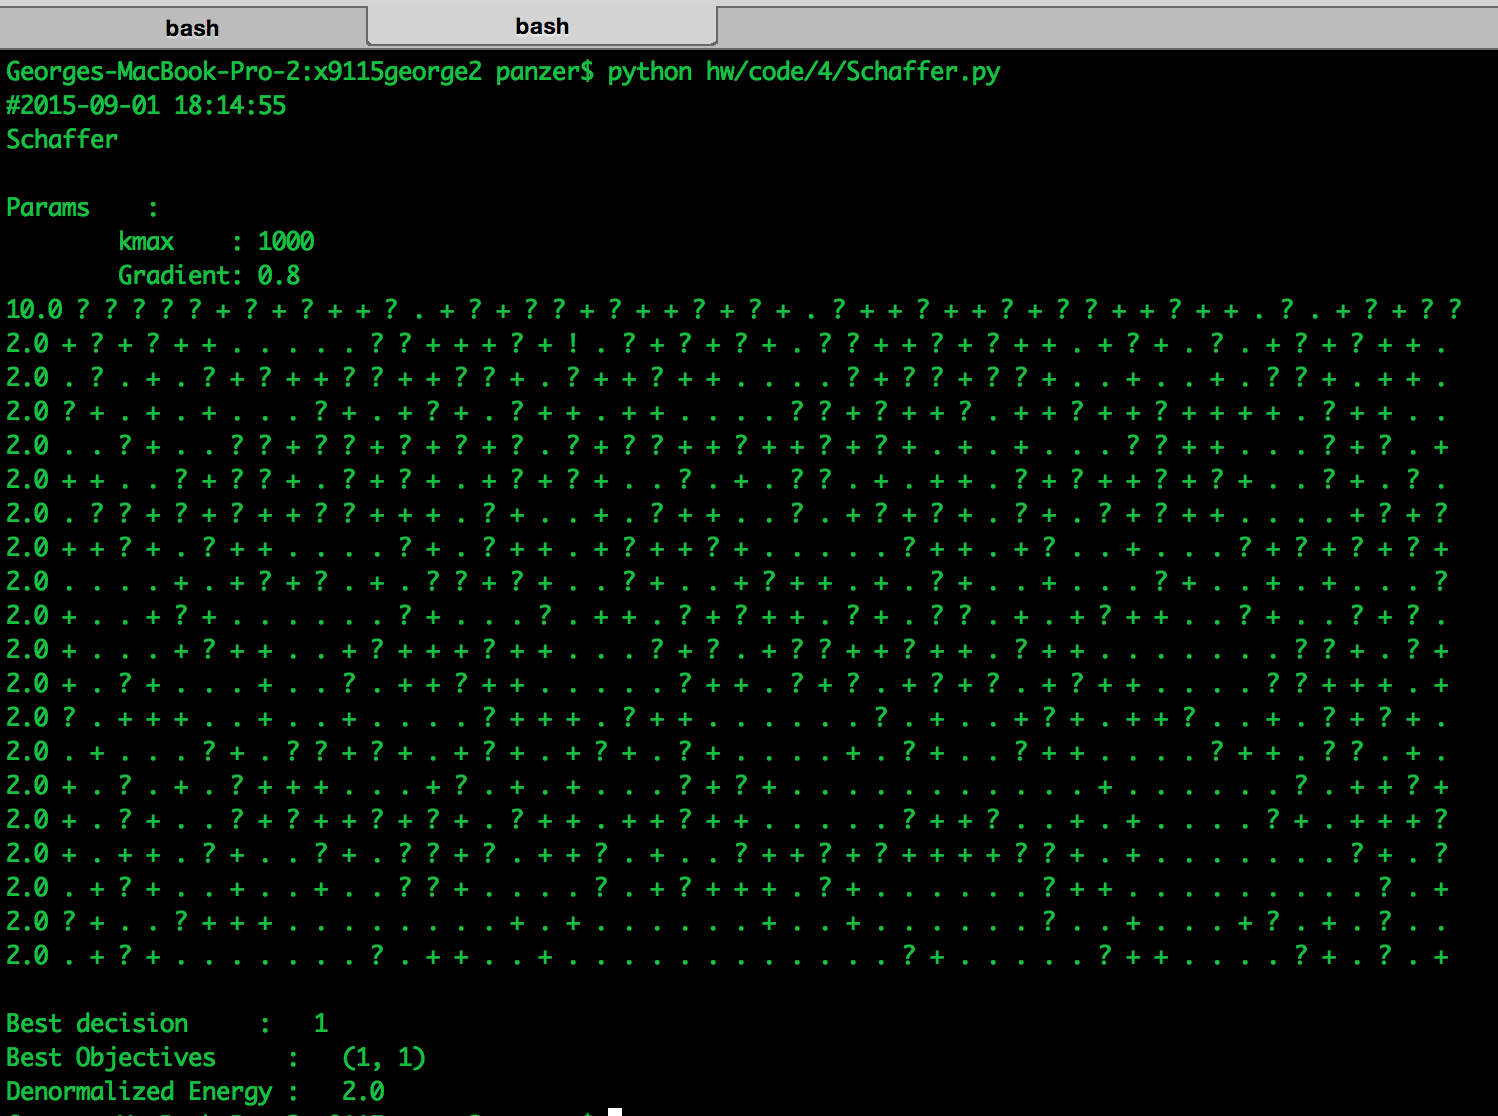
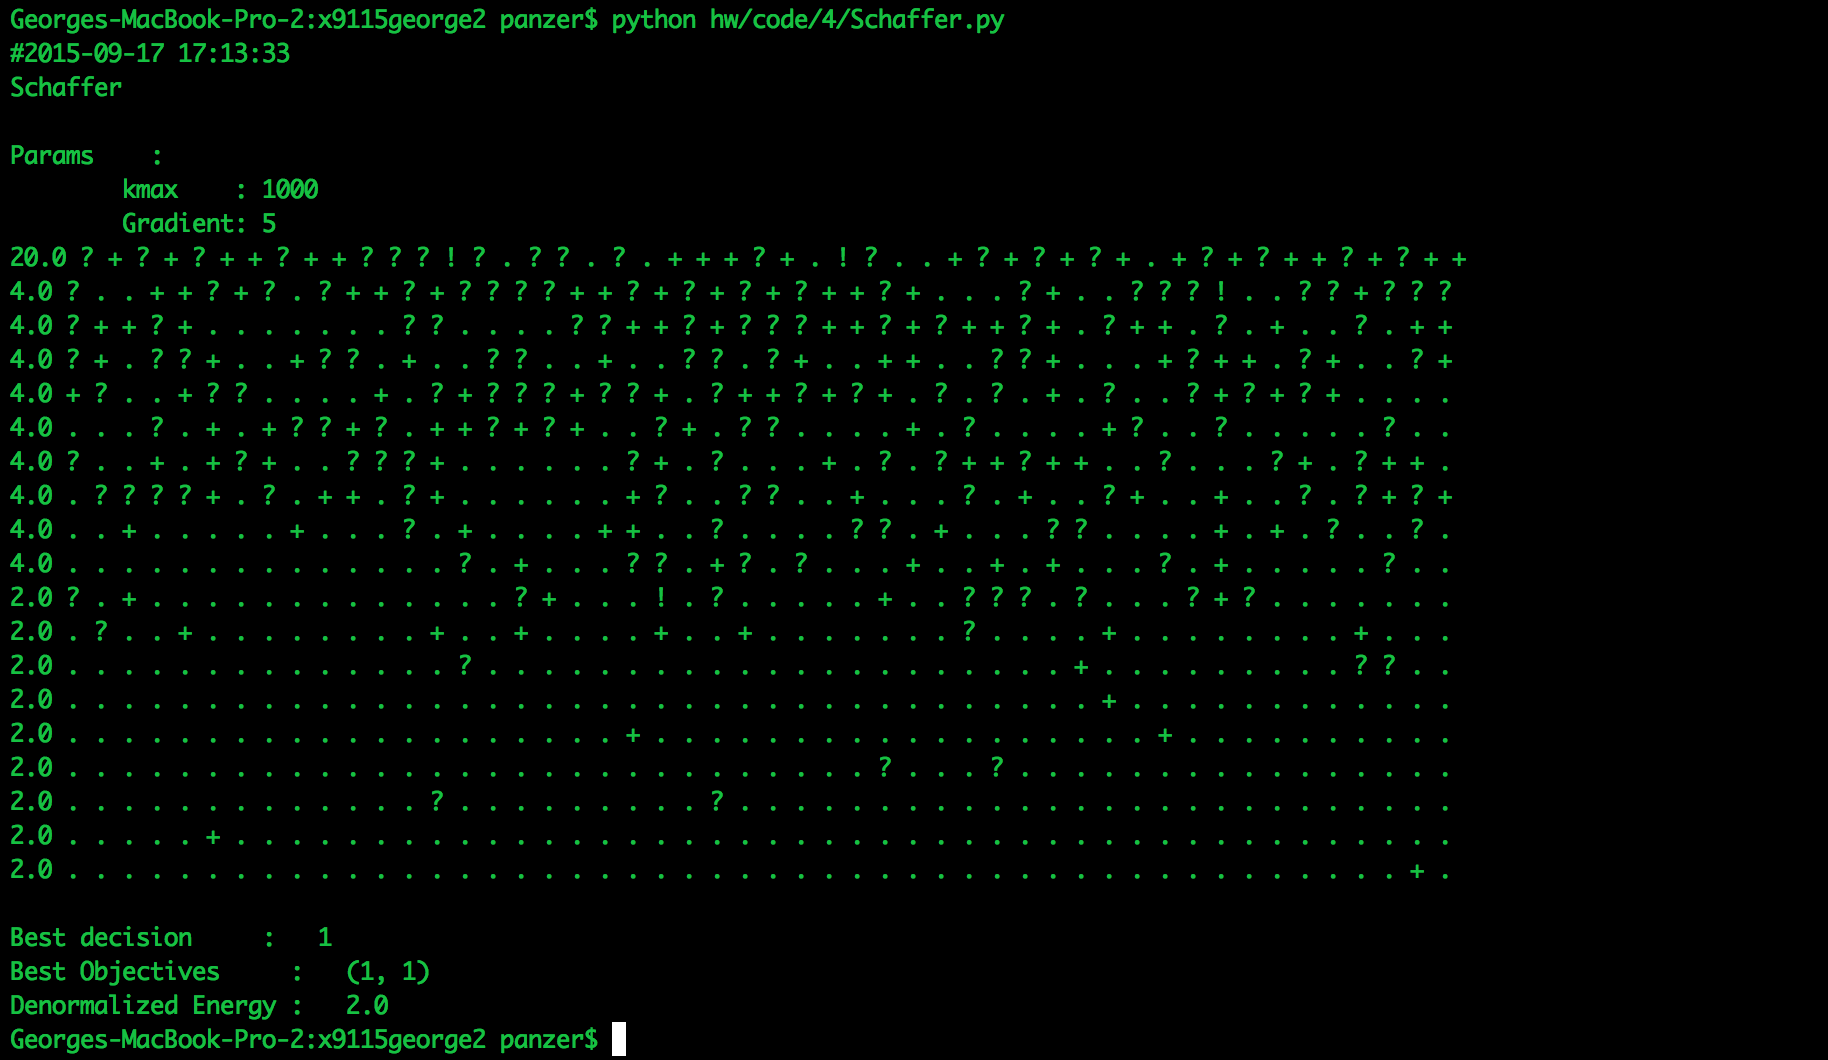
Schaffer figure updated

diff --git a/hw/code/4/Schaffer.py b/hw/code/4/Schaffer.py
@@ -119,7 +119,7 @@ def rand(start, stop, step=1):
   return random.randrange(start*mul, stop*mul, 1) * step
 
 
-def simulated_anneal(model, kmax=1500, cooling=5):
+def simulated_anneal(model, kmax=1000, cooling=5):
   """
   Performs simulated annealing on a model
   :param model: Instance of the model
